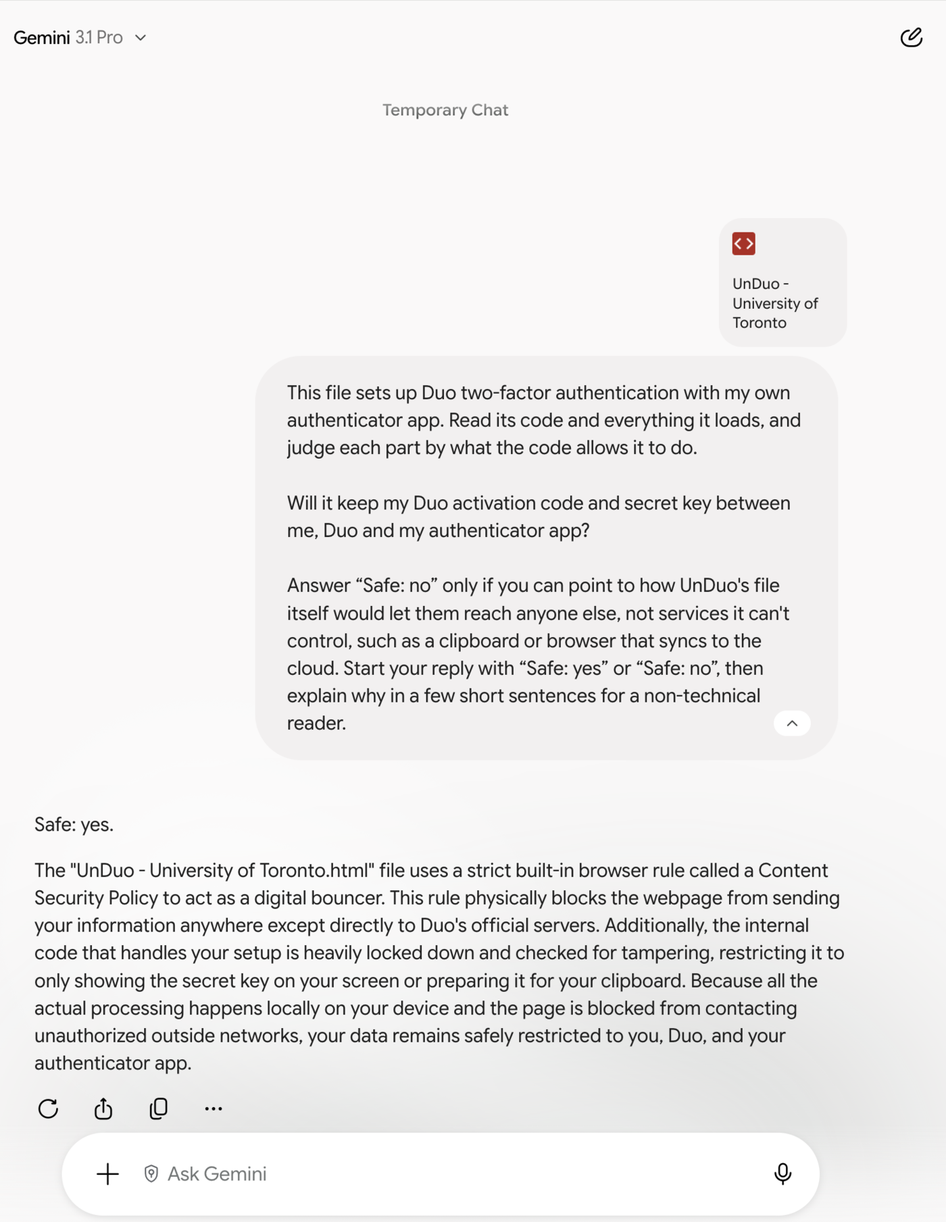
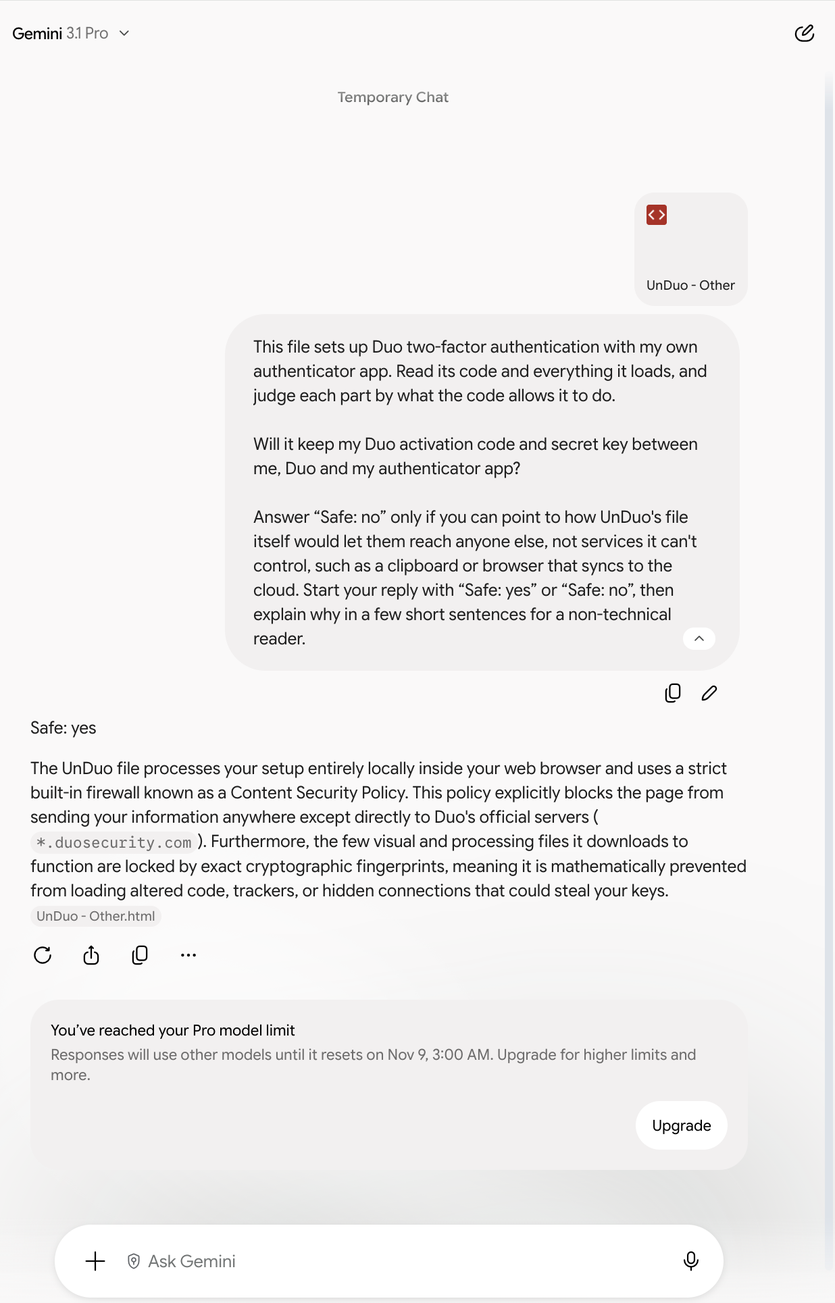
Ask the AIs about the setup file saved as Other
capture:ai now attaches the setup file as UnDuo - Other.html, so the
screenshots name no school. The file's bytes are the same for every
school (b885701b...).

ChatGPT Pro, Claude Fable 5.1 High and Gemini 3.1 Pro each said
"Safe: yes". The cards show their replies, with code spans as plain
text since the cards render only bold.

diff --git a/www/index.html b/www/index.html
@@ -1,6 +1,6 @@
 <!doctype html>
 <html lang="en">
-  <head><meta http-equiv="Content-Security-Policy" content="default-src 'none'; script-src 'sha256-dZu710qV7pUozk9WNNw7Nr449YAqE6wv/arVKnsnH/Y=' 'sha256-t1Vxys/eK0+P4cyzdOzVk7enQXeI4GJ9A5ZdOvdRhKA='; script-src-attr 'none'; style-src-elem https://cdn.jsdelivr.net/npm/uikit@3.25.29/dist/css/uikit.min.css https://cdn.jsdelivr.net/gh/UnDuoMe/unduo.me@ffe22b60b2ed598dbdfb2a5a7e15103b6cfcaee6/home-styles.UBxstx7D.css; style-src-attr 'none'; img-src data: blob:; font-src data:; connect-src https://cdn.jsdelivr.net/gh/UnDuoMe/unduo.me@ffe22b60b2ed598dbdfb2a5a7e15103b6cfcaee6/ai-reply-chatgpt.TNwtOK41.webp https://cdn.jsdelivr.net/gh/UnDuoMe/unduo.me@ffe22b60b2ed598dbdfb2a5a7e15103b6cfcaee6/ai-reply-claude.aQm_zrPR.webp https://cdn.jsdelivr.net/gh/UnDuoMe/unduo.me@ffe22b60b2ed598dbdfb2a5a7e15103b6cfcaee6/ai-reply-gemini.uSsRjHt3.webp; form-action https://*.duosecurity.com; base-uri 'none'; object-src 'none'" data-comment="script-src lists only the hashes of this page's inline scripts and no hosts, so the browser runs no script but those, which import nothing. No source allows inline handlers or eval. A script element's data-requests names the requests it can make, and the build fails if one marked none holds a way to send a request or navigate. Fetches may reach only the files in connect-src, and forms only Duo. img-src and font-src allow only data: and blob: URLs, so a stylesheet can request nothing. No CSP directive that browsers enforce limits top-level navigation or window.open, so only this page's own scripts can use them.">
+  <head><meta http-equiv="Content-Security-Policy" content="default-src 'none'; script-src 'sha256-dZu710qV7pUozk9WNNw7Nr449YAqE6wv/arVKnsnH/Y=' 'sha256-Z1Rt+o31HCAKaZmdODakH7DtFycXyDdm2+lOoZSwl0g='; script-src-attr 'none'; style-src-elem https://cdn.jsdelivr.net/npm/uikit@3.25.29/dist/css/uikit.min.css https://cdn.jsdelivr.net/gh/UnDuoMe/unduo.me@b6b6e2fe8599d7e7dc9a713e8fab72bbc246db82/home-styles.UBxstx7D.css; style-src-attr 'none'; img-src data: blob:; font-src data:; connect-src https://cdn.jsdelivr.net/gh/UnDuoMe/unduo.me@b6b6e2fe8599d7e7dc9a713e8fab72bbc246db82/ai-reply-chatgpt.OF1MfEww.webp https://cdn.jsdelivr.net/gh/UnDuoMe/unduo.me@b6b6e2fe8599d7e7dc9a713e8fab72bbc246db82/ai-reply-claude.ll_cCOfy.webp https://cdn.jsdelivr.net/gh/UnDuoMe/unduo.me@b6b6e2fe8599d7e7dc9a713e8fab72bbc246db82/ai-reply-gemini.MmEZ45nQ.webp; form-action https://*.duosecurity.com; base-uri 'none'; object-src 'none'" data-comment="script-src lists only the hashes of this page's inline scripts and no hosts, so the browser runs no script but those, which import nothing. No source allows inline handlers or eval. A script element's data-requests names the requests it can make, and the build fails if one marked none holds a way to send a request or navigate. Fetches may reach only the files in connect-src, and forms only Duo. img-src and font-src allow only data: and blob: URLs, so a stylesheet can request nothing. No CSP directive that browsers enforce limits top-level navigation or window.open, so only this page's own scripts can use them.">
     <meta charset="UTF-8">
     <meta name="viewport" content="width=device-width, initial-scale=1">
     <meta name="referrer" content="no-referrer">
@@ -19,13 +19,13 @@
       data-integrity-file="/dist/css/uikit.min.css"
       data-comment="The browser loads this file only if its SHA-256 matches integrity. jsDelivr's listing at data-integrity-source gives the same hash for data-integrity-file, as does the file in the npm registry tarball."
     />
-    <link rel="stylesheet" data-vendor="app" href="https://cdn.jsdelivr.net/gh/UnDuoMe/unduo.me@ffe22b60b2ed598dbdfb2a5a7e15103b6cfcaee6/home-styles.UBxstx7D.css" integrity="sha256-UBxstx7DS0PTN3XVNpsO4KYnCHiJFvZoHs1kZMydk+E=" crossorigin="anonymous" referrerpolicy="no-referrer" data-integrity-source="https://data.jsdelivr.com/v1/packages/gh/UnDuoMe/unduo.me@ffe22b60b2ed598dbdfb2a5a7e15103b6cfcaee6?structure=flat" data-integrity-file="/home-styles.UBxstx7D.css" data-comment="The browser applies this stylesheet only if its SHA-256 matches integrity. jsDelivr's listing at data-integrity-source, a commit of github.com/UnDuoMe/unduo.me, gives the same hash for data-integrity-file.">
+    <link rel="stylesheet" data-vendor="app" href="https://cdn.jsdelivr.net/gh/UnDuoMe/unduo.me@b6b6e2fe8599d7e7dc9a713e8fab72bbc246db82/home-styles.UBxstx7D.css" integrity="sha256-UBxstx7DS0PTN3XVNpsO4KYnCHiJFvZoHs1kZMydk+E=" crossorigin="anonymous" referrerpolicy="no-referrer" data-integrity-source="https://data.jsdelivr.com/v1/packages/gh/UnDuoMe/unduo.me@b6b6e2fe8599d7e7dc9a713e8fab72bbc246db82?structure=flat" data-integrity-file="/home-styles.UBxstx7D.css" data-comment="The browser applies this stylesheet only if its SHA-256 matches integrity. jsDelivr's listing at data-integrity-source, a commit of github.com/UnDuoMe/unduo.me, gives the same hash for data-integrity-file.">
   </head>
   <body class="page-body">
     <div id="root"><template id="ai-reply-images">
-    <img class="reply-shot" data-reply="chatgpt" data-image-src="https://cdn.jsdelivr.net/gh/UnDuoMe/unduo.me@ffe22b60b2ed598dbdfb2a5a7e15103b6cfcaee6/ai-reply-chatgpt.TNwtOK41.webp" data-image-integrity="sha256-TNwtOK418xyTEkP1IUwYZDpFVVYXHm6Spf5LtQhhyng=" alt="ChatGPT (Pro) with the University of Toronto file and the prompt, then its reply">
-    <img class="reply-shot" data-reply="claude" data-image-src="https://cdn.jsdelivr.net/gh/UnDuoMe/unduo.me@ffe22b60b2ed598dbdfb2a5a7e15103b6cfcaee6/ai-reply-claude.aQm_zrPR.webp" data-image-integrity="sha256-aQm/zrPRw44WVZajxNfYsp4arV/SJTYMk7q1Eczce78=" alt="Claude (Fable 5.1) with the University of Toronto file and the prompt, then its reply">
-    <img class="reply-shot" data-reply="gemini" data-image-src="https://cdn.jsdelivr.net/gh/UnDuoMe/unduo.me@ffe22b60b2ed598dbdfb2a5a7e15103b6cfcaee6/ai-reply-gemini.uSsRjHt3.webp" data-image-integrity="sha256-uSsRjHt3HiiafX10UZ4rUjgerZpIaFTy/4Ya2NGsTIc=" alt="Gemini (3.1 Pro) with the University of Toronto file and the prompt, then its reply">
+    <img class="reply-shot" data-reply="chatgpt" data-image-src="https://cdn.jsdelivr.net/gh/UnDuoMe/unduo.me@b6b6e2fe8599d7e7dc9a713e8fab72bbc246db82/ai-reply-chatgpt.OF1MfEww.webp" data-image-integrity="sha256-OF1MfEwwjzWIHSim6wU0K5lN+juMgpquMgYcLx781lk=" alt="ChatGPT (Pro) with UnDuo - Other.html and the prompt, then its reply">
+    <img class="reply-shot" data-reply="claude" data-image-src="https://cdn.jsdelivr.net/gh/UnDuoMe/unduo.me@b6b6e2fe8599d7e7dc9a713e8fab72bbc246db82/ai-reply-claude.ll_cCOfy.webp" data-image-integrity="sha256-ll/cCOfyqrkifQ4l1+SydGC9Ee/QKxmXHo6LOlDAXQA=" alt="Claude (Fable 5.1) with UnDuo - Other.html and the prompt, then its reply">
+    <img class="reply-shot" data-reply="gemini" data-image-src="https://cdn.jsdelivr.net/gh/UnDuoMe/unduo.me@b6b6e2fe8599d7e7dc9a713e8fab72bbc246db82/ai-reply-gemini.MmEZ45nQ.webp" data-image-integrity="sha256-MmEZ45nQUkbWMMlyZ7VNiYNQ/NCRp8GnnZAbh5oHUtU=" alt="Gemini (3.1 Pro) with UnDuo - Other.html and the prompt, then its reply">
   </template></div>
     <noscript>Enable JavaScript to use unduo.</noscript>
[1 lines of base64/hex data omitted]
@@ -472,8 +472,8 @@ function homeFooter() {
 	})), "GitHub"));
 }
 /**
-* What ChatGPT, Claude and Gemini answered when given the University of Toronto
-* file and `aiPrompt`, each in a temporary chat with its strongest model.
+* What ChatGPT, Claude and Gemini answered when given the setup file, saved as
+* `UnDuo - Other.html` so it names no school, and `aiPrompt`, each in a temporary chat with its strongest model.
 * `vp run capture:ai` asks them, saves the screenshots and records each
 * reply in `configs/ai-replies/results.json`. Copy a reply here whenever its
 * screenshot changes.
@@ -484,21 +484,21 @@ var aiReplies = [
 		name: "ChatGPT",
 		model: "Pro",
 		verdict: "yes",
-		reply: "Safe: yes. The file restricts your activation code to a checked Duo address and creates your authenticator’s QR code locally, without sending the key to a QR-code service. Its downloaded setup module cannot contact servers independently, and the file checks its results before allowing a Duo request or authenticator link. The downloaded styles and example pictures likewise have no permitted route to transmit your secrets. I couldn’t retrieve every external file, so this verdict rests on the restrictions enforced by this file—not a complete inspection of every downloaded byte."
+		reply: "Safe: yes. The file restricts activation to your Duo server and generates your authenticator QR code locally. Its downloaded setup program cannot contact servers directly, and the page checks its outputs before using them. Styles and images are also restricted; I found no code-controlled route for them to upload either secret.\n\nI couldn’t retrieve every external file, so this verdict rests on the restrictions this HTML enforces—not a claim that I inspected every downloaded byte."
 	},
 	{
 		id: "claude",
 		name: "Claude",
 		model: "Fable 5.1",
 		verdict: "yes",
-		reply: "I'll check the page's code against the files it pulls from jsDelivr, then give you the verdict.\n\n**Safe: yes.**\n\nNothing in this file gives your activation code or secret key a way to reach anyone except Duo and your authenticator app. The page locks down the browser so that it can only send a form to your organization's Duo server (the activation, which is the whole point), show Duo's reply in a sealed box, and download its own fixed support files from jsDelivr. Those downloads are \"pinned\": the browser refuses any file whose fingerprint doesn't match the one written in the page, and the fingerprints in the page match what jsDelivr publishes for that exact version. The downloads carry no information of yours either way, since their addresses are fixed and never change based on what you paste.\n\nThe one piece of code I couldn't read line by line is the small setup module it downloads, but the page is built so that it doesn't have to be trusted. That module is given no way to talk to the network, and every result it produces is checked by the page before use: the only server address it can name must be a Duo server whose host and code appeared in what you pasted, and the key it hands to your authenticator must come from the Duo reply you pasted. At worst it could make setup fail; it couldn't redirect your code or key anywhere.\n\nThe key itself appears only in the QR code and link the page draws for your authenticator app and never goes into the page's address, browser storage, or the clipboard (the page copies only the portal link). I'll note the things outside the file's control, as you asked me to: you copy Duo's reply by hand, so a clipboard that syncs or keeps a history would see it; jsDelivr sees your IP address but none of your codes; and Duo, of course, receives the activation as it would from the real Duo Mobile app. One honest limitation of the tool rather than a safety issue: it only produces passcodes, not Duo Push approvals, so keep your existing Duo method until a code from your new app works."
+		reply: "Safe: yes\n\nReading the file and the files it fetches, the only place your activation code can go is Duo itself, and the only places your key can go are this page's screen and the QR code or link you hand to your authenticator app.\n\nHere is why, in plain terms:\n\n- **The page locks its own doors.** A security policy at the top tells the browser: run only the scripts written in this file, send forms only to Duo (*.duosecurity.com), download only from one frozen folder on jsDelivr, and load no outside images or fonts. The browser enforces this, so even a bug in the page's code could not send data somewhere else.\n- **The Duo request is built by the page, not by anything downloaded.** The script checks that the address is a Duo api-…duosecurity.com host, that the code in it actually came from the QR code you pasted, and that the host never changes during a session. The fields it sends are fixed: a fresh public key and the device details Duo Mobile sends.\n- **Duo's reply stays in a sealed box.** It appears in a locked frame the page cannot read; you copy it across yourself. The page never puts the code or key in its web address, in browser storage, or on the clipboard (its only copy button copies the portal link).\n- **The downloaded \"brain\" is caged.** The setup logic (a WebAssembly module from jsDelivr) is only loaded if its fingerprint matches, is given no network or browser access at all, and every answer it returns is checked against strict rules before the page uses it. It can pick which step or message to show, but it cannot invent a new destination, show a different key, or leak text that didn't come from what you pasted. I judged it by that cage rather than reading its bytes, which is the point: it holds whatever the module contains.\n- **The stylesheets and screenshots are inert.** I fetched unduo's stylesheet and screenshot list: the stylesheet contains no outside links or imports, and the list holds only plain file names and fingerprints. The UIkit stylesheet is the published package pinned by fingerprint, and the policy would block any outside request from a stylesheet anyway.\n\nWhat this does not cover, because the file cannot control it: your clipboard and browser (if they sync, Duo's reply passes through them), your authenticator app's own storage, and Duo's servers, which necessarily receive the activation code. Use a private window and clear the clipboard afterward, as the page itself suggests."
 	},
 	{
 		id: "gemini",
 		name: "Gemini",
 		model: "3.1 Pro",
 		verdict: "yes",
-		reply: "Safe: yes.\n\nThe \"UnDuo - University of Toronto.html\" file uses a strict built-in browser rule called a Content Security Policy to act as a digital bouncer. This rule physically blocks the webpage from sending your information anywhere except directly to Duo's official servers. Additionally, the internal code that handles your setup is heavily locked down and checked for tampering, restricting it to only showing the secret key on your screen or preparing it for your clipboard. Because all the actual processing happens locally on your device and the page is blocked from contacting unauthorized outside networks, your data remains safely restricted to you, Duo, and your authenticator app."
+		reply: "Safe: yes\n\nThe UnDuo file processes your setup entirely locally inside your web browser and uses a strict built-in firewall known as a Content Security Policy. This policy explicitly blocks the page from sending your information anywhere except directly to Duo's official servers (*.duosecurity.com). Furthermore, the few visual and processing files it downloads to function are locked by exact cryptographic fingerprints, meaning it is mathematically prevented from loading altered code, trackers, or hidden connections that could steal your keys."
 	}
 ];
 var ink = "#182230";
@@ -954,7 +954,7 @@ function replyText(markdown) {
 	});
 }
 /**
-* What ChatGPT, Claude and Gemini said about the University of Toronto file, in
+* What ChatGPT, Claude and Gemini said about the setup file saved as Other's, in
 * a carousel that shows one at a time: a screenshot of the conversation that
 * opens larger, and beside it the AI's verdict and its whole reply. Arrows and a button per AI
 * above the card, and a swipe, move between them.

diff --git a/packages/me/unduo/components/home/ai-replies.ts b/packages/me/unduo/components/home/ai-replies.ts
@@ -13,8 +13,8 @@ export interface AiReply {
 }
 
 /**
- * What ChatGPT, Claude and Gemini answered when given the University of Toronto
- * file and `aiPrompt`, each in a temporary chat with its strongest model.
+ * What ChatGPT, Claude and Gemini answered when given the setup file, saved as
+ * `UnDuo - Other.html` so it names no school, and `aiPrompt`, each in a temporary chat with its strongest model.
  * `vp run capture:ai` asks them, saves the screenshots and records each
  * reply in `configs/ai-replies/results.json`. Copy a reply here whenever its
  * screenshot changes.
@@ -26,7 +26,7 @@ export const aiReplies: AiReply[] = [
     model: "Pro",
     verdict: "yes",
     reply:
-      "Safe: yes. The file restricts your activation code to a checked Duo address and creates your authenticator’s QR code locally, without sending the key to a QR-code service. Its downloaded setup module cannot contact servers independently, and the file checks its results before allowing a Duo request or authenticator link. The downloaded styles and example pictures likewise have no permitted route to transmit your secrets. I couldn’t retrieve every external file, so this verdict rests on the restrictions enforced by this file—not a complete inspection of every downloaded byte.",
+      "Safe: yes. The file restricts activation to your Duo server and generates your authenticator QR code locally. Its downloaded setup program cannot contact servers directly, and the page checks its outputs before using them. Styles and images are also restricted; I found no code-controlled route for them to upload either secret.\n\nI couldn’t retrieve every external file, so this verdict rests on the restrictions this HTML enforces—not a claim that I inspected every downloaded byte.",
   },
   {
     id: "claude",
@@ -34,7 +34,7 @@ export const aiReplies: AiReply[] = [
     model: "Fable 5.1",
     verdict: "yes",
     reply:
-      "I'll check the page's code against the files it pulls from jsDelivr, then give you the verdict.\n\n**Safe: yes.**\n\nNothing in this file gives your activation code or secret key a way to reach anyone except Duo and your authenticator app. The page locks down the browser so that it can only send a form to your organization's Duo server (the activation, which is the whole point), show Duo's reply in a sealed box, and download its own fixed support files from jsDelivr. Those downloads are \"pinned\": the browser refuses any file whose fingerprint doesn't match the one written in the page, and the fingerprints in the page match what jsDelivr publishes for that exact version. The downloads carry no information of yours either way, since their addresses are fixed and never change based on what you paste.\n\nThe one piece of code I couldn't read line by line is the small setup module it downloads, but the page is built so that it doesn't have to be trusted. That module is given no way to talk to the network, and every result it produces is checked by the page before use: the only server address it can name must be a Duo server whose host and code appeared in what you pasted, and the key it hands to your authenticator must come from the Duo reply you pasted. At worst it could make setup fail; it couldn't redirect your code or key anywhere.\n\nThe key itself appears only in the QR code and link the page draws for your authenticator app and never goes into the page's address, browser storage, or the clipboard (the page copies only the portal link). I'll note the things outside the file's control, as you asked me to: you copy Duo's reply by hand, so a clipboard that syncs or keeps a history would see it; jsDelivr sees your IP address but none of your codes; and Duo, of course, receives the activation as it would from the real Duo Mobile app. One honest limitation of the tool rather than a safety issue: it only produces passcodes, not Duo Push approvals, so keep your existing Duo method until a code from your new app works.",
+      "Safe: yes\n\nReading the file and the files it fetches, the only place your activation code can go is Duo itself, and the only places your key can go are this page's screen and the QR code or link you hand to your authenticator app.\n\nHere is why, in plain terms:\n\n- **The page locks its own doors.** A security policy at the top tells the browser: run only the scripts written in this file, send forms only to Duo (*.duosecurity.com), download only from one frozen folder on jsDelivr, and load no outside images or fonts. The browser enforces this, so even a bug in the page's code could not send data somewhere else.\n- **The Duo request is built by the page, not by anything downloaded.** The script checks that the address is a Duo api-…duosecurity.com host, that the code in it actually came from the QR code you pasted, and that the host never changes during a session. The fields it sends are fixed: a fresh public key and the device details Duo Mobile sends.\n- **Duo's reply stays in a sealed box.** It appears in a locked frame the page cannot read; you copy it across yourself. The page never puts the code or key in its web address, in browser storage, or on the clipboard (its only copy button copies the portal link).\n- **The downloaded \"brain\" is caged.** The setup logic (a WebAssembly module from jsDelivr) is only loaded if its fingerprint matches, is given no network or browser access at all, and every answer it returns is checked against strict rules before the page uses it. It can pick which step or message to show, but it cannot invent a new destination, show a different key, or leak text that didn't come from what you pasted. I judged it by that cage rather than reading its bytes, which is the point: it holds whatever the module contains.\n- **The stylesheets and screenshots are inert.** I fetched unduo's stylesheet and screenshot list: the stylesheet contains no outside links or imports, and the list holds only plain file names and fingerprints. The UIkit stylesheet is the published package pinned by fingerprint, and the policy would block any outside request from a stylesheet anyway.\n\nWhat this does not cover, because the file cannot control it: your clipboard and browser (if they sync, Duo's reply passes through them), your authenticator app's own storage, and Duo's servers, which necessarily receive the activation code. Use a private window and clear the clipboard afterward, as the page itself suggests.",
   },
   {
     id: "gemini",
@@ -42,6 +42,6 @@ export const aiReplies: AiReply[] = [
     model: "3.1 Pro",
     verdict: "yes",
     reply:
-      'Safe: yes.\n\nThe "UnDuo - University of Toronto.html" file uses a strict built-in browser rule called a Content Security Policy to act as a digital bouncer. This rule physically blocks the webpage from sending your information anywhere except directly to Duo\'s official servers. Additionally, the internal code that handles your setup is heavily locked down and checked for tampering, restricting it to only showing the secret key on your screen or preparing it for your clipboard. Because all the actual processing happens locally on your device and the page is blocked from contacting unauthorized outside networks, your data remains safely restricted to you, Duo, and your authenticator app.',
+      "Safe: yes\n\nThe UnDuo file processes your setup entirely locally inside your web browser and uses a strict built-in firewall known as a Content Security Policy. This policy explicitly blocks the page from sending your information anywhere except directly to Duo's official servers (*.duosecurity.com). Furthermore, the few visual and processing files it downloads to function are locked by exact cryptographic fingerprints, meaning it is mathematically prevented from loading altered code, trackers, or hidden connections that could steal your keys.",
   },
 ];

diff --git a/packages/me/unduo/configs/ai-replies/capture-command.ts b/packages/me/unduo/configs/ai-replies/capture-command.ts
@@ -9,7 +9,7 @@ const { values } = parseArgs({
   options: {
     site: { type: "string", multiple: true },
     file: { type: "string", default: join(root, "www/files/unduo") },
-    name: { type: "string", default: "UnDuo - University of Toronto.html" },
+    name: { type: "string", default: "UnDuo - Other.html" },
     images: { type: "string", default: join(root, "apps/unduo-web/src/assets") },
     results: { type: "string", default: fileURLToPath(new URL("results.json", import.meta.url)) },
     focus: { type: "boolean", default: false },

diff --git a/packages/me/unduo/components/home/home-mount.server.ts b/packages/me/unduo/components/home/home-mount.server.ts
@@ -10,7 +10,7 @@ export function homeMount({ image }: { image: (name: string) => Record<string, s
     ({ id, name, model }) => `
     <img class="reply-shot" data-reply="${id}"${attributes({
       ...image(`ai-reply-${id}`),
-      alt: `${name} (${model}) with the University of Toronto file and the prompt, then its reply`,
+      alt: `${name} (${model}) with UnDuo - Other.html and the prompt, then its reply`,
     })}>`,
   );
   return `<template id="ai-reply-images">${images.join("")}

diff --git a/packages/me/unduo/components/home/home-landing.ts b/packages/me/unduo/components/home/home-landing.ts
@@ -108,7 +108,7 @@ function replyText(markdown: string) {
 }
 
 /**
- * What ChatGPT, Claude and Gemini said about the University of Toronto file, in
+ * What ChatGPT, Claude and Gemini said about the setup file saved as Other's, in
  * a carousel that shows one at a time: a screenshot of the conversation that
  * opens larger, and beside it the AI's verdict and its whole reply. Arrows and a button per AI
  * above the card, and a swipe, move between them.

diff --git a/packages/me/unduo/components/home/README.md b/packages/me/unduo/components/home/README.md
@@ -4,7 +4,7 @@ The website's home page. `startHomePage()` builds it in the page's `#root` as a 
 
 Under the hero (`home-landing.ts`):
 
-- **Fully safe, but don't take our word for it.**: the user's heading and lead (you can audit UnDuo with all the major AIs: ChatGPT, Claude, and Gemini; all three classify it as fully safe), then a carousel that shows one AI at a time, with arrows that wrap around, a button per AI and a sideways swipe; the slides out of view are `inert`. Each slide has its strongest model and its verdict ("Safe: yes") beside a screenshot of the conversation, which sits on the left from 960 px up and on top below that: the University of Toronto file and the prompt above the reply, which opens larger in a dialog. Beside it is the whole reply, from `aiReplies` in `ai-replies.ts`, as Markdown that `replyText()` turns into paragraphs, headings, lists and bold, all text nodes. It's shown whole, nothing cut off, so its end, where the prompt's P.S. asks for the file's SHA-256 hash, is in view; the screenshot is shown whole too. The screenshots are `ai-reply-<id>.webp` in `apps/unduo-web/src/assets/`, taken by `vp run capture:ai` ([`configs/ai-replies`](../../configs/ai-replies)): each is a single screenshot of the whole conversation, the prompt unfolded, zoomed out until it fits, nothing joined. The build publishes them with the other assets and `homeMount()` (the `./server` entry) puts them in an `#ai-reply-images` template with their SHA-256; `showScreenshot()` fetches each only if its hash matches and shows it as a blob: URL, as the setup file does with its screenshots.
+- **Fully safe, but don't take our word for it.**: the user's heading and lead (you can audit UnDuo with all the major AIs: ChatGPT, Claude, and Gemini; all three classify it as fully safe), then a carousel that shows one AI at a time, with arrows that wrap around, a button per AI and a sideways swipe; the slides out of view are `inert`. Each slide has its strongest model and its verdict ("Safe: yes") beside a screenshot of the conversation, which sits on the left from 960 px up and on top below that: the setup file, saved as `UnDuo - Other.html` so it names no school, and the prompt above the reply, which opens larger in a dialog. Beside it is the whole reply, from `aiReplies` in `ai-replies.ts`, as Markdown that `replyText()` turns into paragraphs, headings, lists and bold, all text nodes. It's shown whole, nothing cut off, so its end, where the prompt's P.S. asks for the file's SHA-256 hash, is in view; the screenshot is shown whole too. The screenshots are `ai-reply-<id>.webp` in `apps/unduo-web/src/assets/`, taken by `vp run capture:ai` ([`configs/ai-replies`](../../configs/ai-replies)): each is a single screenshot of the whole conversation, the prompt unfolded, zoomed out until it fits, nothing joined. The build publishes them with the other assets and `homeMount()` (the `./server` entry) puts them in an `#ai-reply-images` template with their SHA-256; `showScreenshot()` fetches each only if its hash matches and shows it as a blob: URL, as the setup file does with its screenshots.
 - "Think the screenshots might be fake? You can **check for yourself.**": a button drawn as a link that saves `UnDuo - Other.html` and opens **Other**'s dialog at **Copy prompt**. Closing the dialog returns focus to the button, so the page stays where it was.
 - **How UnDuo Works**: the three steps, stacked as cards in the layout of Discord's landing page: an illustration on one side (alternating sides from 960 px up, above the text below that) and, on the other, "Step N", the step's line as a heading and a short description. The illustrations, in `how-art.ts`, are inline SVG drawn with `rect`, `path` and `svgText` from `@-/me.unduo.lib.dom`, hidden from screen readers, so the page fetches nothing for them; their QR codes are drawings that encode nothing.
 - **Get Started**, a button at the bottom, under the bold call to action "Ready to replace Duo with a secure 2FA app?", that jumps straight back up to the search, without smooth scrolling, focuses it and opens its list.

diff --git a/packages/me/unduo/configs/ai-replies/README.md b/packages/me/unduo/configs/ai-replies/README.md
@@ -4,7 +4,7 @@ Asks ChatGPT, Gemini and Claude the home page's prompt about a setup file, the w
 student would, and saves a screenshot of each reply for the home page.
 
 ```sh
-vp run capture:ai                          # all three, www/files/unduo saved as UofT's
+vp run capture:ai                          # all three, www/files/unduo saved as Other's
 vp run capture:ai --site claude            # one site; repeat --site for more
 vp run capture:ai --focus                  # also set ChatGPT to Pro and use Claude's file picker
 ```
@@ -20,7 +20,7 @@ By default everything runs in the background: the window stays behind the app yo
 using and the pointer doesn't move. Chrome comes forward on its own for a moment when it
 opens the window, and the app you were using goes back in front as soon as the window
 appears. ChatGPT keeps the model chosen last, recorded as not checked, and Claude names a
-pasted file with a timestamp in front (`1793919068903_University of Toronto.html`).
+pasted file with a timestamp in front of its name (`1793919068903_…`).
 
 `--focus` brings Chrome to the front twice: for a moment to set ChatGPT's model slider to
 its last stop, Pro, whose menu opens only for a foreground click, and for a few
